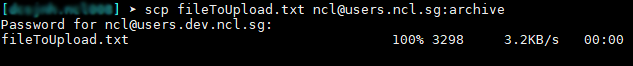
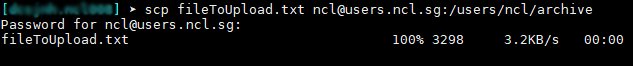
Update based on feedback

Changed region(s): [[0.6904, 0.0303, 0.9605, 0.2424], [0.2701, 0.2727, 0.4502, 0.4848]]

diff --git a/src/main/resources/templates/usescp.html b/src/main/resources/templates/usescp.html
@@ -31,9 +31,16 @@
             <div class="heading col-sm-12 tutorialbackground ">
                 <div class="col-sm-6">
                     <h2>Step 2</h2>
-                    <p>Upload the file using the scp command "scp&nbsp;[filename]&nbsp;[username]@users.ncl.sg:[directory]"</p>
-                    <p>eg. "scp fileToUpload.txt ncl@users.ncl.sg:archive"</p>
-                    <p>The password is the same as the one you use to log into here.</p>
+                    <p>
+                        Upload the file using the scp command "scp&nbsp;[filename]&nbsp;[username]@users.ncl.sg:[directory]" <br/>
+                        where [directory] can be in your home folder /user/your_username, or your project folder /proj/your_project_name.
+                    </p>
+                    <p>eg. "scp fileToUpload.txt ncl@users.ncl.sg:/users/ncl/archive"</p>
+                    <p>
+                        File system on /users or /proj is a networking file system which will be automatically mounted
+                        on the users.ncl.sg machine, as well as all the nodes in your experiment. Hence, if you transfer
+                        files to /users or /proj, you can access those files on any of your experimental nodes.
+                    </p>
                 </div>
                 <div class="col-sm-6">
                     <img class="img-responsive" preload="true" minimal-lightbox="../images/scpfile.png" src="../images/scpfile.png" width="500" alt="screenshot"/>
@@ -42,23 +49,23 @@
             <div class="heading col-sm-12 tutorialbackground ">
                 <div class="col-sm-6">
                     <h2>Step 3</h2>
-                    <p>Log into users.ncl.sg with your username using the command "ssh&nbsp;[username]@users.ncl.sg"</p>
-                    <p>eg. "ssh ncl@users.ncl.sg"</p>
-                    <p>You should find the uploaded file in the specified directory.</p>
+                    <p>Copy data from your experimental node to your local computer:</p>
+                    <ol>
+                        <li>On your experimental node, copy/move the data to your home folder /users/your_username or your project folder /proj/your_project.</li>
+                        <li>
+                            <p>
+                                On your local computer, copy the data using the scp command:
+                                "scp&nbsp;[username]@users.ncl.sg:/path/to/your/data&nbsp;path/on/your/local"
+                            </p>
+                            <p>
+                                e.g. "scp ncl@users.ncl.sg:/users/ncl/demo/test.txt tmp" <br/>
+                                where "tmp" is a directory in your local system/computer.
+                            </p>
+                        </li>
+                    </ol>
                 </div>
                 <div class="col-sm-6">
-                    <img class="img-responsive" preload="true" minimal-lightbox="../images/scpremote.png" src="../images/scpremote.png" width="500" alt="screenshot"/>
-                </div>
-            </div>
-            <div class="heading col-sm-12 tutorialbackground ">
-                <div class="col-sm-6">
-                    <h2>Step 4</h2>
-                    <p>Log into your experiment node from users.ncl.sg using the command "ssh&nbsp;[quantified_name]"</p>
-                    <p>eg. "ssh n0.demo.testbed-ncl.dev.ncl.sg"</p>
-                    <p>You can find the uploaded file in the same directory as in users.ncl.sg.</p>
-                </div>
-                <div class="col-sm-6">
-                    <img class="img-responsive" preload="true" minimal-lightbox="../images/scpnode.png" src="../images/scpnode.png" width="500" alt="screenshot"/>
+                    <img class="img-responsive" preload="true" minimal-lightbox="../images/scpdownload.png" src="../images/scpdownload.png" width="500" alt="screenshot"/>
                 </div>
             </div>
         </div>

diff --git a/src/main/resources/templates/usegui.html b/src/main/resources/templates/usegui.html
@@ -35,7 +35,7 @@
                 <div class="col-sm-6">
                     <h2>Step 2</h2>
                     <p>Log into your experiment node from users.ncl.sg using the command "ssh&nbsp;[quantified_name]"</p>
-                    <p>eg. "ssh n0.demo.testbed-ncl.dev.ncl.sg"</p>
+                    <p>eg. "ssh n0.demo.testbed-ncl.ncl.sg"</p>
                     <p><i>Use the same password as above if prompted.</i></p>
                 </div>
                 <div class="col-sm-6">
@@ -82,7 +82,7 @@
                         Set up port forwarding from your local system to your node via users.ncl.sg, using the command
                         "ssh -L [local_port]:[node_address]:[node_port] [username]@users.ncl.sg".
                     </p>
-                    <p>eg. "ssh -L 5901:n0.demo.testbed-ncl.dev.ncl.sg:5901 ncl@users.ncl.sg"</p>
+                    <p>eg. "ssh -L 5901:n0.demo.testbed-ncl.ncl.sg:5901 ncl@users.ncl.sg"</p>
                 </div>
                 <div class="col-sm-6">
                     <img class="img-responsive" preload="true" minimal-lightbox="../images/vncportforward.png" src="../images/vncportforward.png" width="500" alt="screenshot"/>
@@ -90,7 +90,7 @@
             </div>
             <div class="heading col-sm-12 tutorialbackground">
                 <div class="col-sm-6">
-                    <h2>Step 6</h2>
+                    <h2>Step 7</h2>
                     <p>
                         Open your VNC client (eg. <a href="https://www.realvnc.com/en/connect/download/viewer/">VNC Viewer</a>)
                         and connect to "localhost:[local_port]", which is 5901 in our example above.

diff --git a/src/main/resources/templates/createexperiment.html b/src/main/resources/templates/createexperiment.html
@@ -51,7 +51,7 @@
                     <h2>Step 3</h2>
                     <p>Clicking on “View” brings up this page with details on your experiment and instructions on how to access experiment nodes. The fully qualified name can be found here as well.</p>
                     <p>Instructions to Access Nodes :</p>
-                    <p> - SSH into <strong>users.v1.ncl.sg</strong> by using your <strong>USERNAME</strong> located on the details page or the dashboard.</p>
+                    <p> - SSH into <strong>users.ncl.sg</strong> by using your <strong>USERNAME</strong> located on the details page or the dashboard.</p>
                     <p> - SSH into the node by using its Qualified Name, e.g. n0.demoexp.project.ncl.sg </p></div>
                 <div class="col-sm-6">
                     <img class="img-responsive" preload="true" minimal-lightbox="../images/experiment_details.png" src="../images/experiment_details.png" width="500" height="455" alt="screenshot"/>

diff --git a/src/main/resources/templates/manageresource.html b/src/main/resources/templates/manageresource.html
@@ -48,6 +48,7 @@
                     <p>To set the quota for resources, enter a monetary value for "Budget".</p>
                     <p>The amount of resources left for use is automatically calculated.</p>
                     <p>Click on "Save Settings" to save the budget.</p>
+                    <p><i>Note that only the team leader can update team settings.</i></p>
                 </div>
                 <div class="col-sm-6">
                     <img class="img-responsive" preload="true" minimal-lightbox="../images/teamquota.png" src="../images/teamquota.png" width="500" alt="screenshot"/>

diff --git a/src/main/resources/templates/usessh.html b/src/main/resources/templates/usessh.html
@@ -58,7 +58,7 @@
                 <div class="col-sm-6">
                     <h2>Step 4</h2>
                     <p>Log into your experiment node from users.ncl.sg using the command "ssh&nbsp;[quantified_name]"</p>
-                    <p>eg. "ssh n0.demo.testbed-ncl.dev.ncl.sg"</p>
+                    <p>eg. "ssh n0.demo.testbed-ncl.ncl.sg"</p>
                 </div>
                 <div class="col-sm-6">
                     <img class="img-responsive" preload="true" minimal-lightbox="../images/sshnode.png" src="../images/sshnode.png" width="500" alt="screenshot"/>
